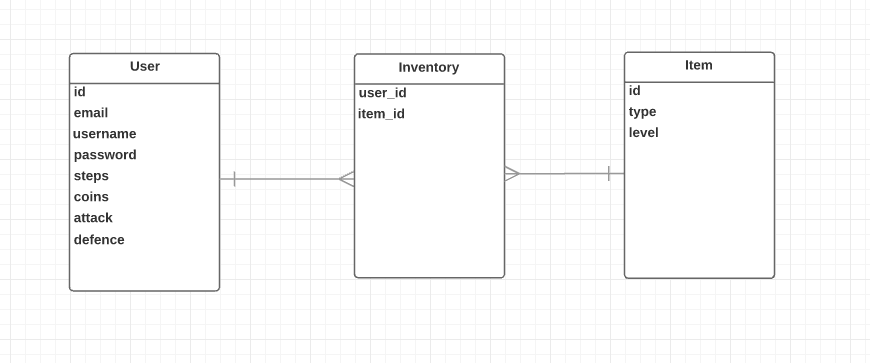
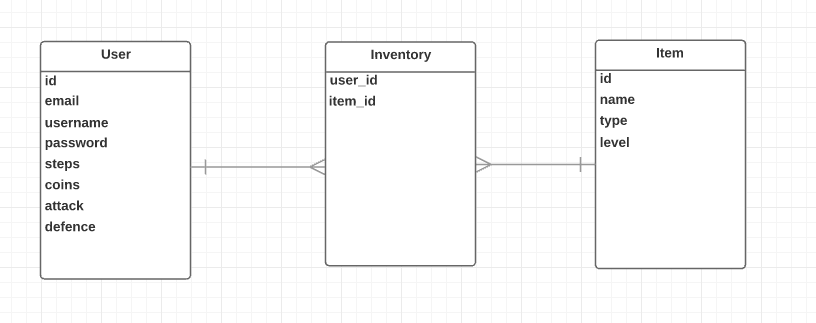
After speaking with squad leader, updated erd and checked user stories.

Changed region(s): [[0.0306, 0.1238, 0.5821, 0.8669], [0.5821, 0.1238, 0.9191, 0.8359], [0.3983, 0.805, 0.5821, 0.8359]]

diff --git a/planning/user_stories.md b/planning/user_stories.md
@@ -9,7 +9,7 @@
 
 #### Silver:
 - As a user, I should be able to sign in, so that I can upload a photo, create a username, password, and choose a weapon.
-- As a user, I should not be able to edit other peoples pages, for security purposes.
+- As a user, I should NOT be able to edit other peoples pages, for security purposes.
 - As a user, I should be able to upgrade my weapon, so that I can win more duals.
 
 
